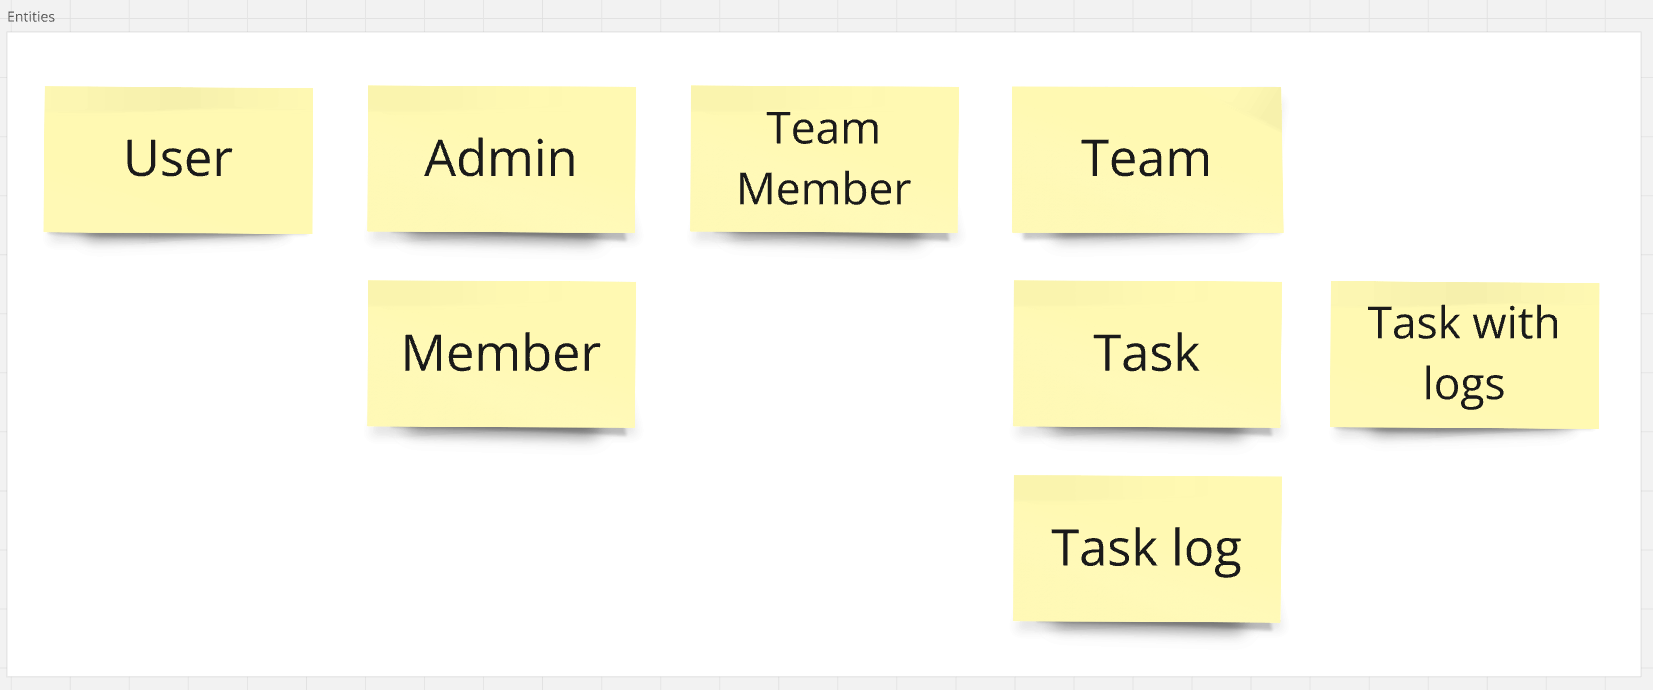
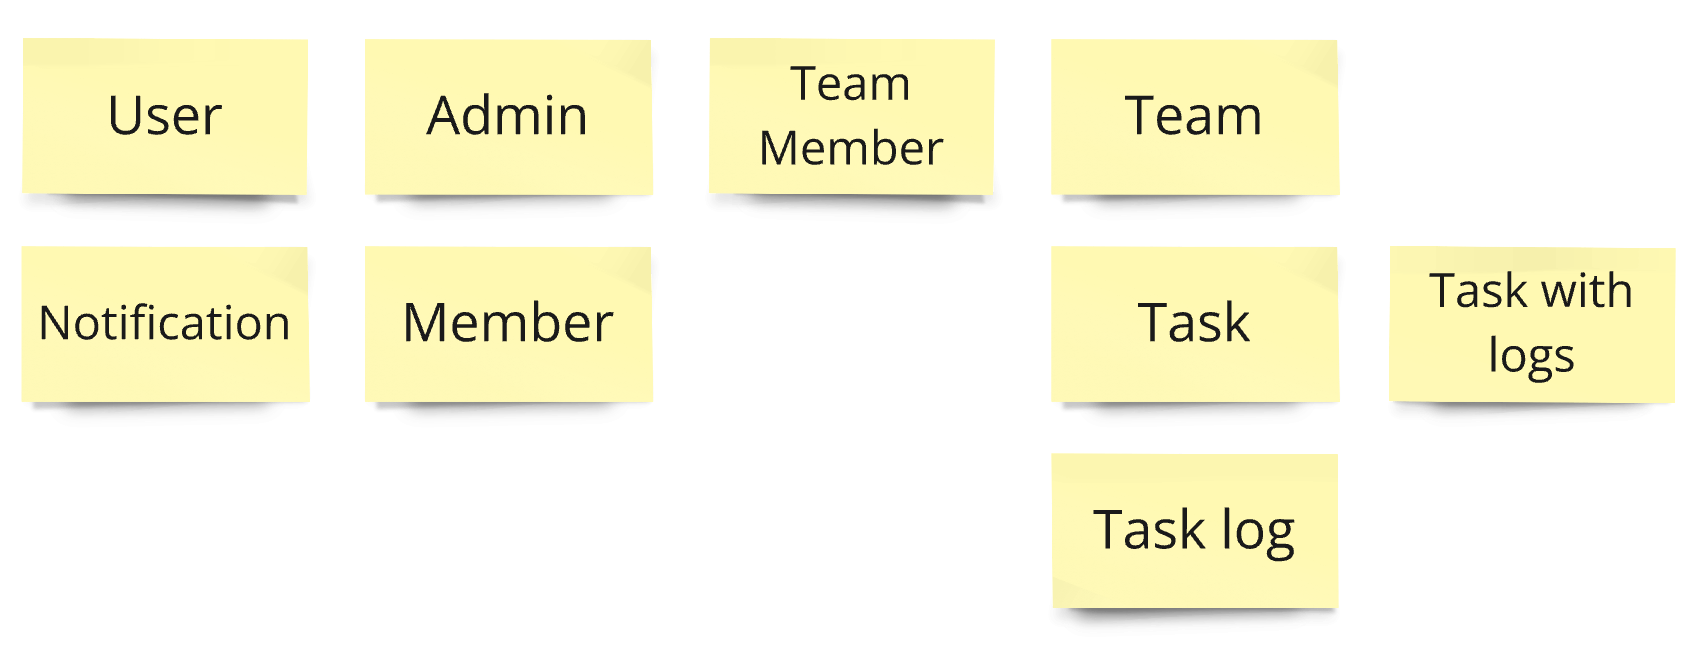
relations and notification

diff --git a/README.md b/README.md
@@ -6,11 +6,15 @@ This repository is the resolution of the [RocketSeat](https://www.rocketseat.com
 
 ## Execution flow, features and entities
 
-![user & team members](./screenshots/user&team-member.png)
-
-![task & team](./screenshots/task&team.png)
-
 ![entities](./screenshots/entities.png)
+
+![user](./screenshots/user.png)
+
+![team](./screenshots/team.png)
+
+![team member & task](./screenshots/team-member&task.png)
+
+![notification](./screenshots/notification.png)
 
 ## Database
 
